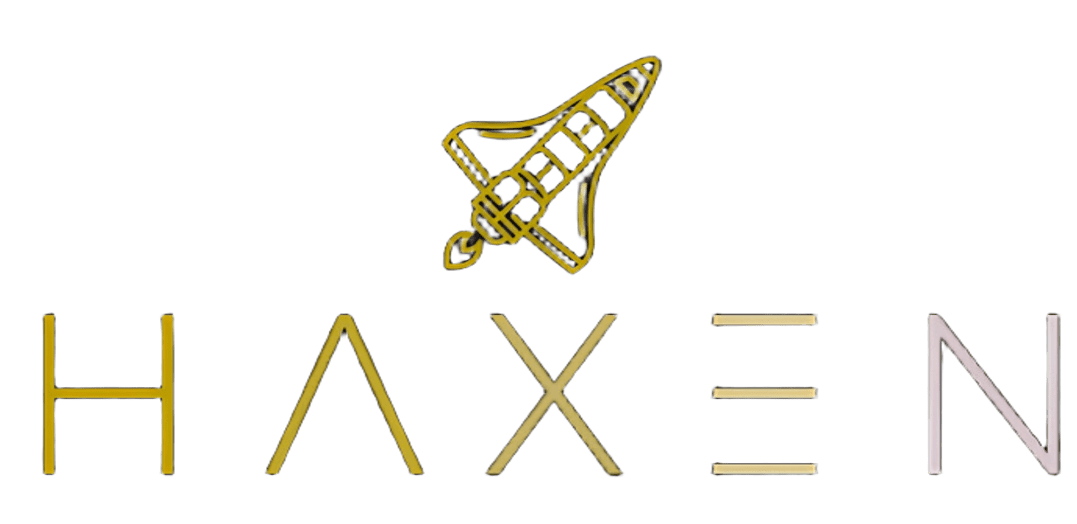
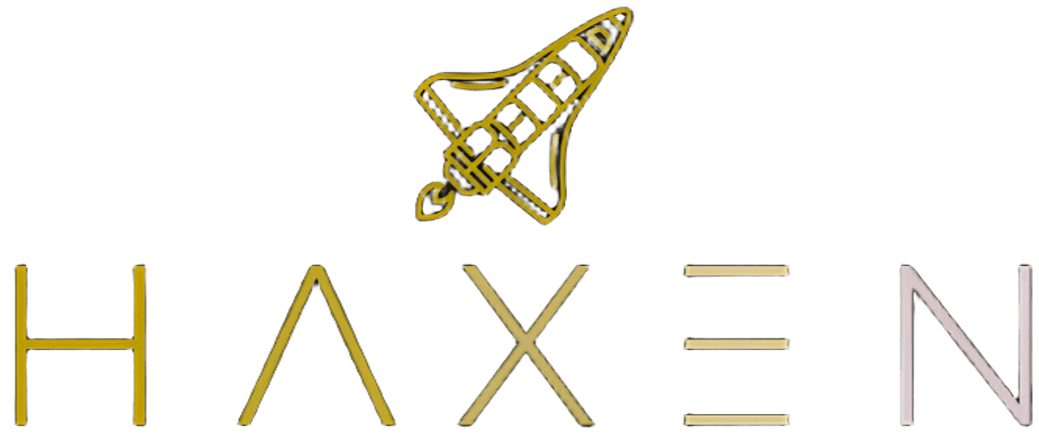
Segundo upload com alterações
Segundo upload com alterações

diff --git a/teste-um-haxen/index.html b/teste-um-haxen/index.html
@@ -10,22 +10,27 @@
 </head>
 <style>
     body {
-    background: url('src/IMG/exo.jpg') no-repeat center center fixed;
-    background-size: cover;
-    background-attachment: fixed;
-    height: 100vh;
-    margin: 0;
-    padding: 0;
+        background: url('src/IMG/exo.jpg') no-repeat center center fixed;
+        background-size: cover;
+        background-attachment: fixed;
+        height: 100vh;
+        margin: 0;
+        padding: 0;
     }
 </style>
 <div>
+
+
+
+    <!-- NAVBAR INICIAL -->>
     <nav class="navbar navbar-expand-lg navbar-dark">
         <img class="imgLogo" src="src/IMG/WhatsApp_Image_2024-10-01_at_21.23.22.png" alt=""></img>
         <button class="navbar-toggler" type="button" data-toggle="collapse" data-target="#navbarNav"
             aria-controls="navbarNav" aria-expanded="false" aria-label="Toggle navigation">
             <span class="navbar-toggler-icon"></span>
         </button>
-        <div class="collapse navbar-collapse justify-content-center" id="navbarNav" style="margin-right: 100px;">
+        <div class="collapse navbar-collapse justify-content-center" id="navbarNav"
+            style="margin-right: 100px; margin-top: -20px">
             <ul class="navbar-nav">
                 <li class="nav-item mx-3">
                     <a class="nav-link" href="#" id="openModal">Botão opção 1</a>
@@ -43,40 +48,91 @@
         </div>
     </nav>
 
-    
-    <div id="carouselExampleIndicators" class="carousel slide custom-imgCarrossel" data-ride="carousel">
+
+
+
+    <!-- CAROUSEL DE IMAGENS -->
+    <div id="carouselExampleIndicators" class="carousel slide custom-imgCarrossel" data-ride="carousel"
+        style="margin-top: 10px; margin-left: 40px;">
         <ol class="carousel-indicators">
-          <li data-target="#carouselExampleIndicators" data-slide-to="0" class="active"></li>
-          <li data-target="#carouselExampleIndicators" data-slide-to="1"></li>
-          <li data-target="#carouselExampleIndicators" data-slide-to="2"></li>
+            <li data-target="#carouselExampleIndicators" data-slide-to="0" class="active"></li>
+            <li data-target="#carouselExampleIndicators" data-slide-to="1"></li>
+            <li data-target="#carouselExampleIndicators" data-slide-to="2"></li>
         </ol>
-        <div class="carousel-inner">
-          <div class="carousel-item active">
-            <img class="d-block h-500" src="src/IMG/Banner/banner_space_apps.jpg" alt="First slide">
-          </div>
-          <div class="carousel-item">
-            <img class="d-block w-100" src="src/IMG/Banner/james_web.jpg" alt="Second slide">
-          </div>
-          <div class="carousel-item">
-            <img class="d-block w-100" src="src/IMG/sistema-solar.jpg" alt="Third slide">
-          </div>
+        <div class="carousel-inner" style="border-radius: 16px;">
+            <div class="carousel-item active">
+                <img class="d-block h-500" src="src/IMG/Banner/banner_space_apps.jpg" alt="First slide">
+            </div>
+            <div class="carousel-item">
+                <img class="d-block w-100" src="src/IMG/Banner/james_web.jpg" alt="Second slide">
+            </div>
+            <div class="carousel-item">
+                <img class="d-block w-100" src="src/IMG/sistema-solar.jpg" alt="Third slide">
+            </div>
         </div>
         <a class="carousel-control-prev" href="#carouselExampleIndicators" role="button" data-slide="prev">
-          <span class="carousel-control-prev-icon" aria-hidden="true"></span>
-          <span class="sr-only">Previous</span>
+            <span class="carousel-control-prev-icon" aria-hidden="true"></span>
+            <span class="sr-only">Previous</span>
         </a>
         <a class="carousel-control-next" href="#carouselExampleIndicators" role="button" data-slide="next">
-          <span class="carousel-control-next-icon" aria-hidden="true"></span>
-          <span class="sr-only">Next</span>
+            <span class="carousel-control-next-icon" aria-hidden="true"></span>
+            <span class="sr-only">Next</span>
         </a>
-      </div>
+    </div>
 
 
 
 
+    <!-- CARD COM IMAGENS E CONTEÚDOS-->>
+    <div class="row  justify-content-center">
+        <div class="col-4">
+            <div class="my-4">
+                <div class="card" style="width: 40rem; border-radius: 16px;">
+                    <img class="card-img-top" src="src/IMG/sistema-solar.jpg" alt="Card image cap">
+                    <div class="card-body">
+                      <h5 class="card-title">Card title</h5>
+                      <p class="card-text">Some quick example text to build on the card title and make up the bulk of the card's content.</p>
+                      <a href="#" class="btn btn-primary" onclick="teste()">Go somewhere</a>
+                    </div>
+                </div>
+            </div>
+        </div>
+
+        <div style="padding: 210px;">
+
+        </div>
+
+        <div class="col-4">
+            <div class="my-4" style="margin-left: -135px;">
+                <div class="card" style="width: 40rem; border-radius: 16px;">
+                    <img class="card-img-top" src="src/IMG/sistema-solar.jpg" alt="Card image cap">
+                    <div class="card-body">
+                      <h5 class="card-title">Card title</h5>
+                      <p class="card-text">Some quick example text to build on the card title and make up the bulk of the card's content.</p>
+                      <p></p>
+                      <a href="#" class="btn btn-primary">Go somewhere</a>
+                    </div>
+                </div>
+            </div>
+        </div>
+    </div>
 
 
 
+    <div id="carouselExampleIndicators" class="carousel slide custom-imgCarrossel2 justify-content-center my-4" data-ride="carousel"
+        style="margin-top: 10px; margin: auto">
+        <div class="carousel-inner" style="border-radius: 16px;">
+            <div class="carousel-item active">
+                <img class="d-block w-100" src="src/IMG/sistema-solar.jpg" alt="Third slide">
+            </div>
+        </div>
+    </div>
+
+
+    
+    
+    
+    
     <!-- MODAL ALERTA -->
     <div class="modal fade" id="infoModal" tabindex="-1" aria-labelledby="infoModalLabel" aria-hidden="true">
         <div class="modal-dialog">
@@ -92,28 +148,6 @@
                         criativas em tecnologia espacial e outros desafios científicos. O time está focado em trazer
                         ideias que combinam expertise técnica e visão estratégica para resolver problemas relevantes de
                         forma impactante.</p>
-                    </div>
-                    <div class="modal-footer">
-                        <button type="button" class="btn btn-danger" data-dismiss="modal">Fechar</button>
-                    </div>
-                </div>
-            </div>
-        </div>  
-    </div>
-
-
-    <!-- MODAL COM CONTEÚDO DE OUTRO HTML -->
-    <div class="modal fade" id="infoModal1" tabindex="-1" aria-labelledby="infoModal3Label" aria-hidden="true">
-        <div class="modal-dialog modal-lg">
-            <div class="modal-content">
-                <div class="modal-header">
-                    <h5 class="modal-title" id="infoModal3Label">MODAL HTML</h5>
-                    <button type="button" class="close" data-dismiss="modal" aria-label="Close">
-                        <span aria-hidden="true">&times;</span>
-                    </button>
-                </div>
-                <div id="modalBody" class="modal-body" style="overflow-y: auto;">
-
                 </div>
                 <div class="modal-footer">
                     <button type="button" class="btn btn-danger" data-dismiss="modal">Fechar</button>
@@ -121,63 +155,112 @@
             </div>
         </div>
     </div>
+</div>
 
-    
 
-    <!-- MODAL COM CONTEÚDO PRÓPRIO -->
-    <div class="modal fade " id="infoModal2" tabindex="-1" aria-labelledby="fullscreenModalLabel" aria-hidden="true">
-        <div class="modal-dialog modal-lg">
-            <div class="modal-content">
-                <div class="modal-header">
-                    <h5 class="modal-title" id="infoModal2Label">MODAL PRÓPRIO</h5>
-                    <button type="button" class="close" data-dismiss="modal" aria-label="Close">
-                        <span aria-hidden="true">&times;</span>
-                    </button>
-                </div>
-                <div class="modal-body" style="overflow-y: auto;">
-                    <div class="row">
-                        <div class="col-6">
-                            <h2 class="mt-4">O que são Exoplanetas?</h2>
-                            <p>
-                                Exoplanetas, ou planetas extrasolares, são planetas que orbitam estrelas fora do nosso sistema
-                                solar. Desde a primeira descoberta de um exoplaneta na década de 1990, milhares de exoplanetas
-                                foram identificados, variando em tamanho, composição e órbita.
-                            </p>
-        
-                            <div class="text-center my-4">
-                                <img src="https://www.canalhistory.com.br/sites/history.uol.com.br/files/styles/wide/public/images/2024/09/27/Exoplaneta%20-%20Gigante%20-%20History%20Channel%20Brasil.jpg"
-                                    alt="Exoplaneta" class="img-fluid" style="max-width: 80%;">
-                            </div>
-                        </div>
+
+
+
+
+
+<!-- MODAL COM CONTEÚDO DE OUTRO HTML -->
+<div class="modal fade" id="infoModal1" tabindex="-1" aria-labelledby="infoModal3Label" aria-hidden="true">
+    <div class="modal-dialog modal-lg">
+        <div class="modal-content">
+            <div class="modal-header">
+                <h5 class="modal-title" id="infoModal3Label">MODAL HTML</h5>
+                <button type="button" class="close" data-dismiss="modal" aria-label="Close">
+                    <span aria-hidden="true">&times;</span>
+                </button>
+            </div>
+            <div id="modalBody" class="modal-body" style="overflow-y: auto;">
+
+            </div>
+            <div class="modal-footer">
+                <button type="button" class="btn btn-danger" data-dismiss="modal">Fechar</button>
+            </div>
+        </div>
+    </div>
+</div>
+
+
+
+
+
+
+
+
+
+
+<!-- MODAL COM CONTEÚDO PRÓPRIO -->
+<div class="modal fade " id="infoModal2" tabindex="-1" aria-labelledby="fullscreenModalLabel" aria-hidden="true">
+    <div class="modal-dialog modal-lg">
+        <div class="modal-content">
+            <div class="modal-header">
+                <h5 class="modal-title" id="infoModal2Label">MODAL PRÓPRIO</h5>
+                <button type="button" class="close" data-dismiss="modal" aria-label="Close">
+                    <span aria-hidden="true">&times;</span>
+                </button>
+            </div>
+            <div class="modal-body" style="overflow-y: auto;">
+                <div class="row">
+                    <div class="col-6">
+                        <h2 class="mt-4">O que são Exoplanetas?</h2>
+                        <p>
+                            Exoplanetas, ou planetas extrasolares, são planetas que orbitam estrelas fora do nosso
+                            sistema
+                            solar. Desde a primeira descoberta de um exoplaneta na década de 1990, milhares de
+                            exoplanetas
+                            foram identificados, variando em tamanho, composição e órbita.
+                        </p>
                         
-                        <div class="col-6">
-                            <p>
-                                Esses mundos podem ser gasosos, como Júpiter, ou rochosos, como a Terra. Alguns exoplanetas
-                                estão localizados na "zona habitável" de suas estrelas, onde as condições podem permitir a
-                                presença de água líquida, aumentando a possibilidade de vida. A busca por exoplanetas é uma área
-                                fascinante da astronomia moderna, fornecendo insights sobre a formação de sistemas planetários e
-                                as condições que podem sustentar a vida.
-                            </p>
-        
-                            <div class="text-center my-4 responsive">
-                                <div class="embed-responsive embed-responsive-16by9">
-                                    <iframe class="embed-responsive-item" src="https://www.youtube.com/embed/d_5_MAqsPOM" allowfullscreen></iframe>
+                        <div class="text-center my-4">
+                            <img src="https://www.canalhistory.com.br/sites/history.uol.com.br/files/styles/wide/public/images/2024/09/27/Exoplaneta%20-%20Gigante%20-%20History%20Channel%20Brasil.jpg"
+                            alt="Exoplaneta" class="img-fluid" style="max-width: 80%;">
+                        </div>
+                    </div>
+
+                    <div class="col-6">
+                        <p>
+                            Esses mundos podem ser gasosos, como Júpiter, ou rochosos, como a Terra. Alguns exoplanetas
+                            estão localizados na "zona habitável" de suas estrelas, onde as condições podem permitir a
+                            presença de água líquida, aumentando a possibilidade de vida. A busca por exoplanetas é uma
+                            área
+                            fascinante da astronomia moderna, fornecendo insights sobre a formação de sistemas
+                            planetários e
+                            as condições que podem sustentar a vida.
+                        </p>
+                        
+                        <div class="text-center my-4 responsive">
+                            <div class="embed-responsive embed-responsive-16by9">
+                                <iframe class="embed-responsive-item" src="https://www.youtube.com/embed/d_5_MAqsPOM"
+                                    allowfullscreen></iframe>
                                 </div>
-                            </div>
                         </div>
                     </div>
                 </div>
-                <div class="modal-footer">
-                    <button type="button" class="btn btn-danger" data-dismiss="modal">Fechar</button>
-                </div>
+            </div>
+            <div class="modal-footer">
+                <button type="button" class="btn btn-danger" data-dismiss="modal">Fechar</button>
             </div>
         </div>
     </div>
+</div>
 
-    <script src="https://code.jquery.com/jquery-3.5.1.slim.min.js"></script>
-    <script src="https://cdn.jsdelivr.net/npm/@popperjs/core@2.9.1/dist/umd/popper.min.js"></script>
-    <script src="https://stackpath.bootstrapcdn.com/bootstrap/4.5.2/js/bootstrap.min.js"></script>
-    <script src="src/SCRIPT/scrip.js"></script>
+<div style="margin-top: 80px;">
+    asdasdasd
+</div>
+
+<footer>
+    <div class="copyright">
+        HAXEN &copy; <span id="year"></span> Todos os direitos reservados.
+    </div>
+</footer>
+
+<script src="https://code.jquery.com/jquery-3.5.1.slim.min.js"></script>
+<script src="https://cdn.jsdelivr.net/npm/@popperjs/core@2.9.1/dist/umd/popper.min.js"></script>
+<script src="https://stackpath.bootstrapcdn.com/bootstrap/4.5.2/js/bootstrap.min.js"></script>
+<script src="src/SCRIPT/scrip.js"></script>
 </body>
 
 </html>

diff --git a/teste-um-haxen/src/CSS/style.css b/teste-um-haxen/src/CSS/style.css
@@ -1,15 +1,37 @@
 .imgLogo{
-    width: 110px;
-    height: 60px;
+    width: 100px;
+    height: 50px;
     margin-left: 30px;
+    margin-top: -20px;
 }
 
 .custom-imgCarrossel{
     display: flex;
-    width: 100vw;
-    height: 330px !important;
+    width: 1450px !important;
+    height: 450px !important;
 }
 
 .d-block{
     width: 100%;
+}
+
+.copyright {
+    width: 100%;
+    left: 0;
+    bottom: 0;
+    text-align: center;
+    font-size: 14px;
+    color: #ffffff;
+    padding: 20px 0;
+    background-color: #000000;
+}
+
+.custom-imgCarrossel2{
+    display: flex;
+    width: 1200px !important;
+    height: 600px !important;
+}
+
+.card-img-top{
+    border-radius: 16px;
 }

diff --git a/teste-um-haxen/src/SCRIPT/scrip.js b/teste-um-haxen/src/SCRIPT/scrip.js
@@ -21,3 +21,12 @@ document.getElementById('openModal2').addEventListener('click', function () {
         })
         .catch(error => console.error('Erro ao carregar a nova página:', error));
 });
+
+
+document.getElementById("year").textContent = new Date().getFullYear();
+
+function teste(){
+    $(document).ready(function () {
+        $('#infoModal').modal('show');
+    });
+}
